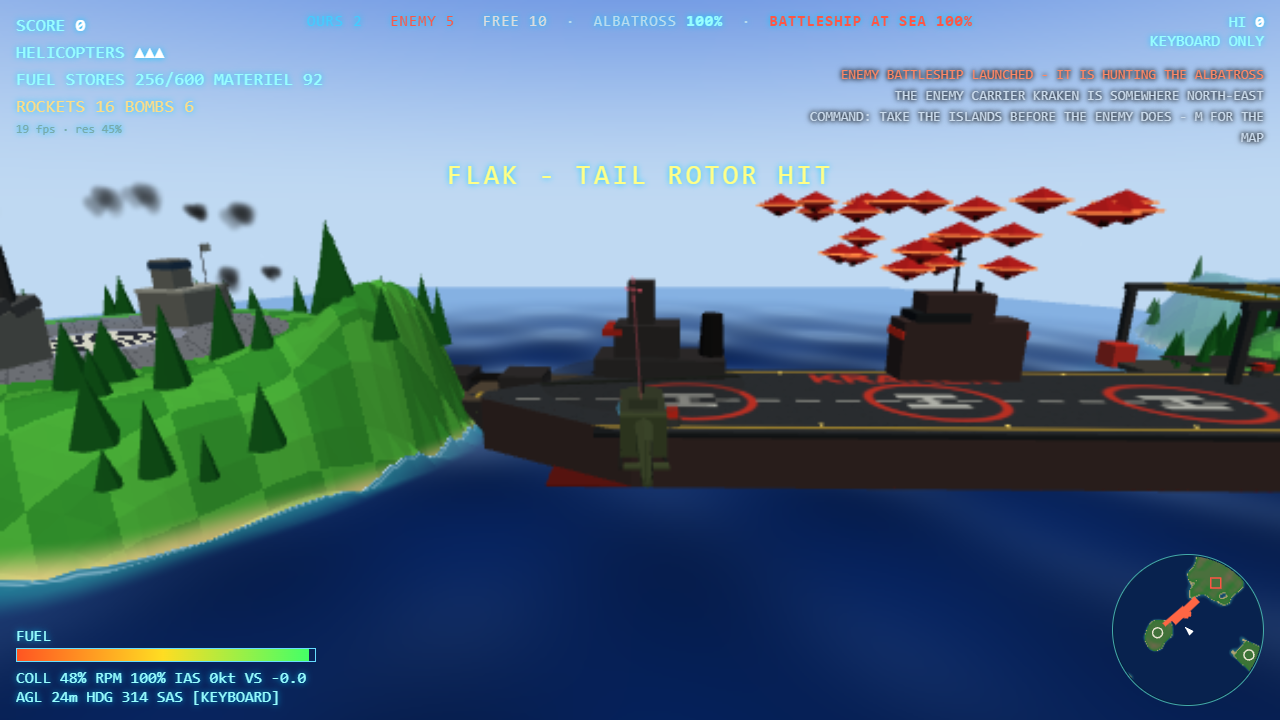
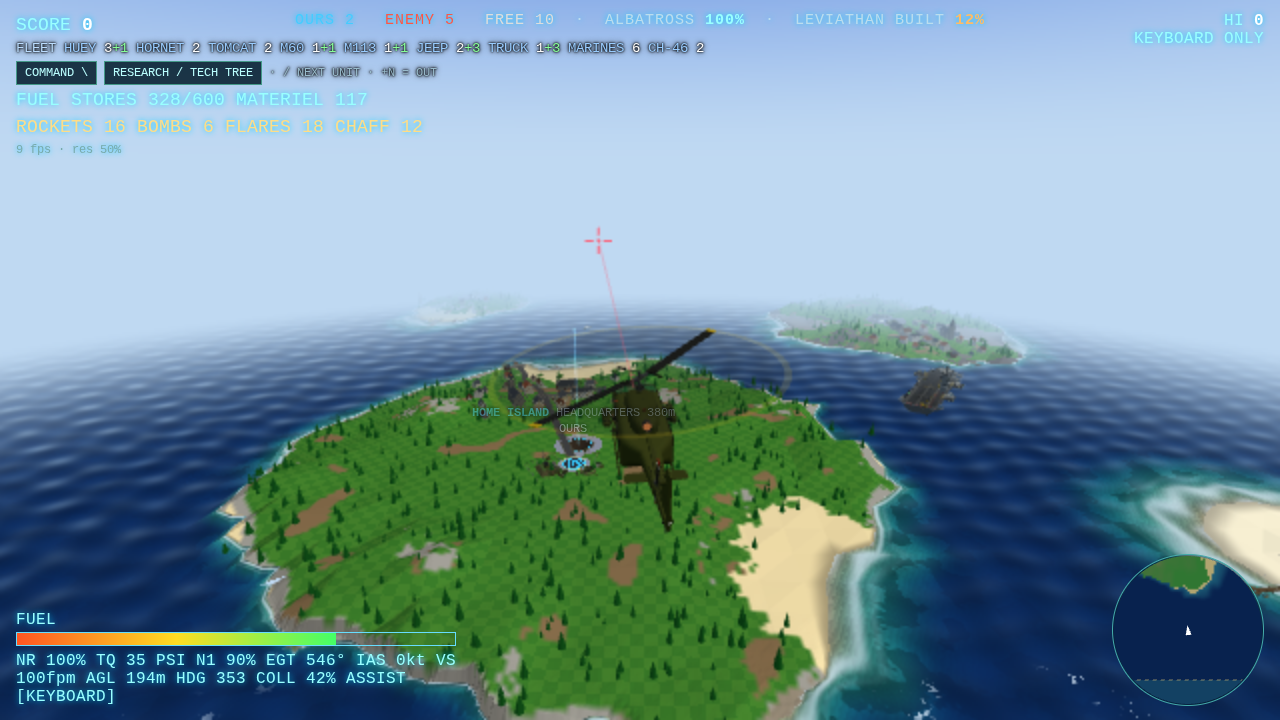
README: current NGC-1980 screenshots, branch guide (main = latest tested build, experimental = integration)
The README still showed the pre-NGC KRAKEN/battleship image and described main as the old game.

diff --git a/README.md b/README.md
@@ -8,7 +8,7 @@ Bungeling Bay* and *Carrier Command*. Design bible: [BIBLE.md](docs/ngc1980/BIBL
 You fly a simulated helicopter from the deck of your carrier, the ALBATROSS, across a sea of 17 islands.
 The enemy carrier KRAKEN is out there doing the same, and whoever controls the map wins.
 
-The experimental build now has a 2.56 km control zone, varied rocky and sandy islands, and continuous distance haze
+The current build has a 2.56 km control zone, varied rocky and sandy islands, and continuous distance haze
 with blended scenery LOD. Click **RESEARCH / TECH TREE** on the HUD or in the Esc menu to open research.
 Fish schools now populate the water ahead of the flying camera: look for moving dark shoals and silver flashes;
 individual fish are easiest to see low over the sea or while swimming. Esc → **SEA LIFE: MEDIUM** enables them
@@ -28,7 +28,18 @@ Commands and report format: [tools guide](tools/README.md#benchmark-and-html-dev
 [Unit audit devlog](docs/devlogs/2026-10-26-units/devlog.html): 48 selectable unit cases, reviewed screenshots and nine clips.
 [Per-unit benchmark coverage](docs/ngc1980/UNIT-BENCHMARKS.md): `node tools/unit-benchmark.mjs --list` lists individual unit fixtures.
 
-![The KRAKEN and the enemy battleship](docs/screenshot.png)
+![A Huey over the home island, with the ALBATROSS offshore and the next islands on the horizon](docs/screenshot.png)
+
+| | |
+|---|---|
+| ![CH-46 Sea Knight on an island pad after landing its Marines](docs/ngc1980/evidence/visibility-2026-10-26/sea-knight-dismounted.png) | ![Flying over the forested mainland past the control zone](docs/ngc1980/evidence/visibility-2026-10-26/flight-2km.png) |
+| ![Huey cockpit on the ALBATROSS deck in VR (both eyes)](docs/ngc1980/evidence/webxr-2026-10-26/huey-cockpit.png) | ![F/A-18A on the catapult in VR (both eyes)](docs/ngc1980/evidence/webxr-2026-10-26/hornet.png) |
+
+Screenshots from 2026-10-26 builds; more in [VALIDATION.md](docs/ngc1980/VALIDATION.md).
+
+**Branches.** `main` is the latest tested NGC-1980 build, so clone or download that. `experimental` is where new
+features are integrated and tested first; once a batch passes regression it is merged into `main`. Feature work lives
+on `ngc/<feature>` branches. Right now `main` and `experimental` hold the same game.
 
 ## What's in it
 
@@ -79,7 +90,7 @@ Use `\` to choose your own vehicle and Shift+`\` to research locked units. Start
 available hardware immediately, or `?sim` to watch both commanders. Esc provides the pause menu and recovery options.
 
 **Desktop launchers (Windows + WSL).** `bash launcher/install.sh` (run in WSL) puts two icons on the Windows desktop:
-**Thrust Zarch** runs this checkout (`main`, port 8765) and **NGC-1980 EXPERIMENTAL** runs the `experimental`
+**Thrust Zarch** (an old icon name; it now opens NGC-1980 too) runs this checkout (`main`, port 8765) and **NGC-1980 EXPERIMENTAL** runs the `experimental`
 worktree next to it (port 8766, the icon with the orange EXP band). Each click starts that build's server inside WSL
 (or reuses it) and opens the browser, so both builds can run side by side. The existing NGC-1980 checkout is `/home/jayjay/thrust-zarch-experimental`; run commands there. The launcher lives in `%LOCALAPPDATA%\ThrustZarch` (log: `launcher.log`).
 
